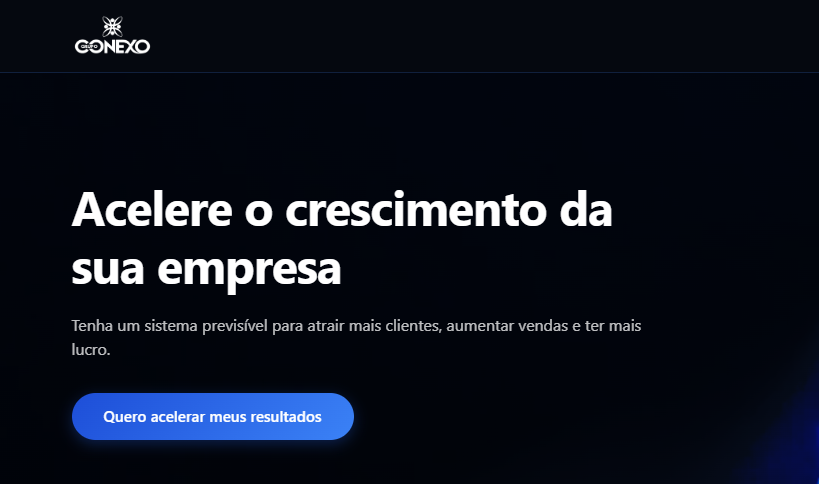
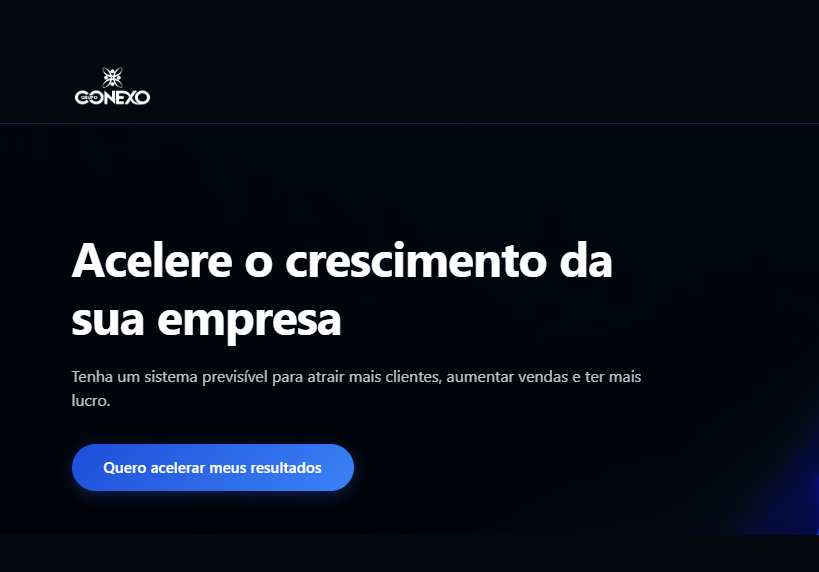
feat: news projects

diff --git a/src/types/index.ts b/src/types/index.ts
@@ -23,7 +23,7 @@ export interface Experience {
   descriptionPt: string;
   technologies: string[];
   current?: boolean;
-  type: 'full-time' | 'part-time' | 'freelance' | 'internship' | 'education';
+  type: 'full-time' | 'part-time' | 'freelance' | 'internship' | 'education'| 'startup';
   workMode: 'remote' | 'on-site' | 'hybrid';
 }
 
